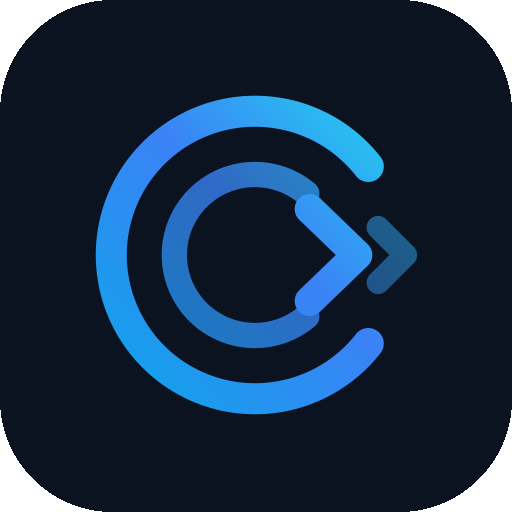
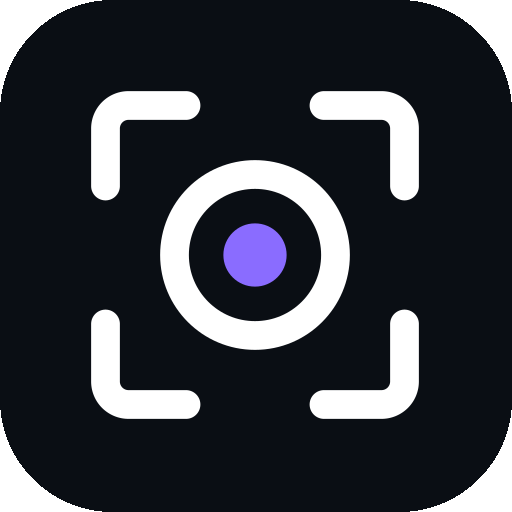
Marca: isotipo nuevo (recuadro de detección + lente) e íconos por producto
Nico definió la identidad nueva de OmniAccess (26/10) y pidió aplicarla en el lab.
- OmniLogo: el anillo con cheurón y su degradado fijo pasa a ser el recuadro de detección
  con la lente, en currentColor (se lee en los dos temas) y el punto violeta de OmniVision
  como constante con nombre.
- iconos-marca.py: el mismo dibujo; cada consola instalable (LPR, Face, Filas) lleva el
  color de su producto de fondo para distinguirlas en el teléfono; la del guardia, en tinta.
  Acepta SALIDA para generar fuera del repo. Íconos, logos y tarjeta para compartir
  regenerados.
- build-manuals.js: el isotipo de la portada de los manuales, el mismo.
- Login: sin testimonios cargados se mostraba la cita de una persona inventada
  («Ricardo Valenzuela»). Ahora son frases del producto, sin nombre de nadie.

Claude-Session: https://claude.ai/code/session_01Y2MUNPm4g8YGBEXaZ9C8Sj

Changed region(s): [[0.1562, 0.1562, 0.8438, 0.8438], [0.4375, 0.4375, 0.5625, 0.5625]]

diff --git a/src/components/brand/OmniLogo.tsx b/src/components/brand/OmniLogo.tsx
@@ -1,25 +1,29 @@
 /**
  * Isotipo OmniAccess.
  *
- * Un anillo de cobertura (todo vigilado) con el paso abierto a la derecha y el
- * cheurón de avance (acceso autorizado). Es el mismo dibujo que va en la portada
- * de los manuales — si se cambia acá, cambiar también en scripts/build-manuals.js.
+ * El recuadro de detección (las cuatro esquinas que OmniVision dibuja sobre lo que ve)
+ * encuadrando una lente. El punto del centro es OmniVision: lo único de color propio.
+ *
+ * Reemplaza al anillo con cheurón (octubre 2026, identidad nueva). Las esquinas y la
+ * lente van con `currentColor` para que el isotipo herede el color del texto donde se
+ * pone —claro sobre la barra oscura, oscuro sobre papel— en vez de traer un degradado
+ * fijo que en uno de los dos temas no se lee.
+ *
+ * Es el mismo dibujo que va en scripts/iconos-marca.py y en la portada de los manuales
+ * (scripts/build-manuals.js): si se cambia acá, cambiarlo también allá.
  */
+
+/** El violeta de OmniVision. Es de la marca, no de la interfaz: no es un tono de estado
+ *  ni un color de acción, por eso no vive entre los tokens de globals.css. */
+export const VIOLETA_OMNIVISION = "#8A6CFF";
+
 export function OmniLogo({ size = 24, className }: { size?: number; className?: string }) {
-    const id = `oa${size}`;
     return (
-        <svg width={size} height={size} viewBox="0 0 64 64" className={className} aria-label="OmniAccess">
-            <defs>
-                <linearGradient id={id} x1="6" y1="58" x2="58" y2="6" gradientUnits="userSpaceOnUse">
-                    <stop offset="0" stopColor="#0ea5e9" />
-                    <stop offset=".55" stopColor="#3b82f6" />
-                    <stop offset="1" stopColor="#22d3ee" />
-                </linearGradient>
-            </defs>
-            <path d="M51.7 16.6 A25 25 0 1 0 51.7 47.4" fill="none" stroke={`url(#${id})`} strokeWidth="5.4" strokeLinecap="round" />
-            <path d="M41 21.3 A14 14 0 1 0 41 42.7" fill="none" stroke={`url(#${id})`} strokeWidth="4.4" strokeLinecap="round" opacity=".78" />
-            <path d="M41.5 24 L49.8 32 L41.5 40" fill="none" stroke={`url(#${id})`} strokeWidth="5.2" strokeLinecap="round" strokeLinejoin="round" />
-            <path d="M53.4 27.2 L58.2 32 L53.4 36.8" fill="none" stroke={`url(#${id})`} strokeWidth="4" strokeLinecap="round" strokeLinejoin="round" opacity=".5" />
+        <svg width={size} height={size} viewBox="0 0 64 64" className={className} aria-label="OmniAccess" fill="none">
+            <path d="M6 20V10a4 4 0 0 1 4-4h10M44 6h10a4 4 0 0 1 4 4v10M58 44v10a4 4 0 0 1-4 4H44M20 58H10a4 4 0 0 1-4-4V44"
+                stroke="currentColor" strokeWidth="5" strokeLinecap="round" />
+            <circle cx="32" cy="32" r="14" stroke="currentColor" strokeWidth="5" />
+            <circle cx="32" cy="32" r="5.5" fill={VIOLETA_OMNIVISION} />
         </svg>
     );
 }

diff --git a/scripts/build-manuals.js b/scripts/build-manuals.js
@@ -47,15 +47,11 @@ function medidaPng(p) {
     } catch { return null; }
 }
 
-/* Isotipo OmniAccess — anillo de cobertura con el paso abierto. */
-const LOGO = (px) => `<svg width="${px}" height="${px}" viewBox="0 0 64 64" aria-label="OmniAccess">
-  <defs><linearGradient id="oaG${px}" x1="6" y1="58" x2="58" y2="6" gradientUnits="userSpaceOnUse">
-    <stop offset="0" stop-color="#0ea5e9"/><stop offset=".55" stop-color="#3b82f6"/><stop offset="1" stop-color="#22d3ee"/>
-  </linearGradient></defs>
-  <path d="M51.7 16.6 A25 25 0 1 0 51.7 47.4" fill="none" stroke="url(#oaG${px})" stroke-width="5.4" stroke-linecap="round"/>
-  <path d="M41 21.3 A14 14 0 1 0 41 42.7" fill="none" stroke="url(#oaG${px})" stroke-width="4.4" stroke-linecap="round" opacity=".78"/>
-  <path d="M41.5 24 L49.8 32 L41.5 40" fill="none" stroke="url(#oaG${px})" stroke-width="5.2" stroke-linecap="round" stroke-linejoin="round"/>
-  <path d="M53.4 27.2 L58.2 32 L53.4 36.8" fill="none" stroke="url(#oaG${px})" stroke-width="4" stroke-linecap="round" stroke-linejoin="round" opacity=".5"/>
+/* Isotipo OmniAccess — recuadro de detección + lente; el punto es OmniVision (ver brand/OmniLogo.tsx). */
+const LOGO = (px) => `<svg width="${px}" height="${px}" viewBox="0 0 64 64" aria-label="OmniAccess" fill="none">
+  <path d="M6 20V10a4 4 0 0 1 4-4h10M44 6h10a4 4 0 0 1 4 4v10M58 44v10a4 4 0 0 1-4 4H44M20 58H10a4 4 0 0 1-4-4V44" stroke="currentColor" stroke-width="5" stroke-linecap="round"/>
+  <circle cx="32" cy="32" r="14" stroke="currentColor" stroke-width="5"/>
+  <circle cx="32" cy="32" r="5.5" fill="#8A6CFF"/>
 </svg>`;
 
 /* ─────────────── Markdown mínimo (sin dependencias) ─────────────── */

diff --git a/src/app/login/page.tsx b/src/app/login/page.tsx
@@ -23,7 +23,13 @@ export default function LoginPage() {
     const [brand, setBrand] = useState<{ name: string; subtitle: string; logoUrl: string; loginBgUrl: string }>({ name: '', subtitle: '', logoUrl: '', loginBgUrl: '' });
     useEffect(() => { getAppBranding().then((b: any) => setBrand(b)).catch(() => {}); }, []);
     const [tIdx, setTIdx] = useState(0);
-    const TS_DEFAULT = [{ quote: "OmniAccess ha revolucionado la forma en que gestionamos la seguridad. No es solo un sistema, es la base de nuestra tranquilidad operativa.", name: "Ricardo Valenzuela", role: "Director de Seguridad Patrimonial" }];
+    // Sin testimonios cargados en Ajustes → Branding se muestran frases del producto, no la cita
+    // de una persona inventada: un nombre y un cargo que nadie dijo, en la puerta de entrada de un
+    // sistema de seguridad, es justo lo que no se puede mostrar.
+    const TS_DEFAULT = [
+        { quote: "La cámara detecta. OmniVision confirma: cada evento se verifica con inteligencia artificial propia antes de avisar.", name: "OmniVision", role: "IA propia, en el servidor del sitio" },
+        { quote: "Matrículas, rostros, filas e intrusión en un solo panel, con las imágenes guardadas en el sitio.", name: "OmniAccess", role: "Ve. Verifica. Avisa." },
+    ];
     const testimonials: any[] = ((brand as any).testimonials && (brand as any).testimonials.length) ? (brand as any).testimonials : TS_DEFAULT;
     useEffect(() => { const n = testimonials.length; if (n <= 1) return; const iv = setInterval(() => setTIdx((i) => (i + 1) % n), 7000); return () => clearInterval(iv); }, [testimonials.length]);
     const tCur = testimonials[tIdx % testimonials.length] || TS_DEFAULT[0];

diff --git a/scripts/iconos-marca.py b/scripts/iconos-marca.py
@@ -26,31 +26,32 @@ except ImportError as e:
     sys.exit(f"falta una dependencia ({e}); ver el encabezado del script")
 
 RAIZ = Path(__file__).resolve().parent.parent
-PUBLIC = RAIZ / "public"
+PUBLIC = Path(__import__("os").environ.get("SALIDA", str(RAIZ / "public")))
 FUENTE_WOFF2 = RAIZ / "src/app/fuentes/outfit-latin.woff2"
 
 # Colores del producto (ver DESIGN.md): fondo oscuro de la app y el degradado del isotipo.
-FONDO = (11, 18, 32, 255)          # #0b1220
-FONDO_HEX = "#0b1220"
+FONDO = (10, 14, 20, 255)          # #0A0E14, la tinta de la identidad
+FONDO_HEX = "#0A0E14"
 BLANCO = (255, 255, 255, 255)
 GRIS = (148, 163, 184, 255)        # slate-400
 
-MARCA_SVG = """<svg xmlns="http://www.w3.org/2000/svg" viewBox="0 0 64 64" width="{w}" height="{w}">
-  <defs>
-    <linearGradient id="g" x1="6" y1="58" x2="58" y2="6" gradientUnits="userSpaceOnUse">
-      <stop offset="0" stop-color="#0ea5e9"/><stop offset=".55" stop-color="#3b82f6"/><stop offset="1" stop-color="#22d3ee"/>
-    </linearGradient>
-  </defs>
-  <path d="M51.7 16.6 A25 25 0 1 0 51.7 47.4" fill="none" stroke="url(#g)" stroke-width="5.4" stroke-linecap="round"/>
-  <path d="M41 21.3 A14 14 0 1 0 41 42.7" fill="none" stroke="url(#g)" stroke-width="4.4" stroke-linecap="round" opacity=".78"/>
-  <path d="M41.5 24 L49.8 32 L41.5 40" fill="none" stroke="url(#g)" stroke-width="5.2" stroke-linecap="round" stroke-linejoin="round"/>
-  <path d="M53.4 27.2 L58.2 32 L53.4 36.8" fill="none" stroke="url(#g)" stroke-width="4" stroke-linecap="round" stroke-linejoin="round" opacity=".5"/>
+# El isotipo (src/components/brand/OmniLogo.tsx): recuadro de detección + lente, y el punto
+# violeta de OmniVision. `trazo` y `punto` cambian según el fondo donde va.
+VIOLETA = "#8A6CFF"
+MARCA_SVG = """<svg xmlns="http://www.w3.org/2000/svg" viewBox="0 0 64 64" width="{w}" height="{w}" fill="none">
+  <path d="M6 20V10a4 4 0 0 1 4-4h10M44 6h10a4 4 0 0 1 4 4v10M58 44v10a4 4 0 0 1-4 4H44M20 58H10a4 4 0 0 1-4-4V44" stroke="{trazo}" stroke-width="5" stroke-linecap="round"/>
+  <circle cx="32" cy="32" r="14" stroke="{trazo}" stroke-width="5"/>
+  <circle cx="32" cy="32" r="5.5" fill="{punto}"/>
 </svg>"""
 
+# Cada consola instalable lleva el color de su producto de fondo, para distinguirlas en
+# la pantalla del teléfono o la tablet. La del guardia y la general van en tinta.
+COLOR_PRODUCTO = {"guard": "#0A0E14", "lpr": "#1F5EFF", "face": "#E8457C", "filas": "#0FA3A3"}
 
-def marca(px: int) -> Image.Image:
+
+def marca(px: int, trazo: str = "#FFFFFF", punto: str = VIOLETA) -> Image.Image:
     """El isotipo solo, sobre transparente, de px×px."""
-    png = cairosvg.svg2png(bytestring=MARCA_SVG.format(w=px).encode(), output_width=px, output_height=px)
+    png = cairosvg.svg2png(bytestring=MARCA_SVG.format(w=px, trazo=trazo, punto=punto).encode(), output_width=px, output_height=px)
     return Image.open(io.BytesIO(png)).convert("RGBA")
 
 
@@ -65,13 +66,17 @@ def fuente(peso: int, tam: int) -> ImageFont.FreeTypeFont:
     return fnt
 
 
-def icono(px: int, margen: float = 0.14, radio: float = 0.22, fondo=FONDO) -> Image.Image:
+def hex_rgba(h: str):
+    h = h.lstrip("#"); return (int(h[0:2], 16), int(h[2:4], 16), int(h[4:6], 16), 255)
+
+
+def icono(px: int, margen: float = 0.14, radio: float = 0.22, fondo=FONDO, punto: str = VIOLETA) -> Image.Image:
     """Ícono cuadrado: fondo oscuro con esquinas redondeadas y el isotipo centrado.
     `margen` es la fracción de aire alrededor (los maskable piden más)."""
     im = Image.new("RGBA", (px, px), (0, 0, 0, 0))
     d = ImageDraw.Draw(im)
     d.rounded_rectangle([0, 0, px - 1, px - 1], radius=int(px * radio), fill=fondo)
-    m = marca(int(px * (1 - 2 * margen)))
+    m = marca(int(px * (1 - 2 * margen)), punto=punto)
     im.alpha_composite(m, (int(px * margen), int(px * margen)))
     return im
 
@@ -81,7 +86,7 @@ def wordmark(ancho: int, alto: int, claro: bool = True, fondo=(0, 0, 0, 0)) -> I
     im = Image.new("RGBA", (ancho, alto), fondo)
     d = ImageDraw.Draw(im)
     mk = int(alto * 0.46)
-    t1, t2 = "OmniAccess", "CONTROL Y ACCESO"
+    t1, t2 = "OmniAccess", "VE. VERIFICA. AVISA."
     # El tamaño del nombre sale del ancho disponible, no de un número fijo: así el mismo
     # dibujo sirve para 1024×512 y para una cabecera angosta sin recortarse.
     tam = int(alto * 0.24)
@@ -94,7 +99,7 @@ def wordmark(ancho: int, alto: int, claro: bool = True, fondo=(0, 0, 0, 0)) -> I
     w1 = d.textlength(t1, font=f1); w2 = sum(d.textlength(ch, font=f2) + esp for ch in t2)
     bloque = mk + alto * 0.1 + max(w1, w2)
     x = (ancho - bloque) / 2
-    im.alpha_composite(marca(mk), (int(x), (alto - mk) // 2))
+    im.alpha_composite(marca(mk, trazo="#FFFFFF" if claro else FONDO_HEX), (int(x), (alto - mk) // 2))
     tx = x + mk + alto * 0.1
     col = BLANCO if claro else (15, 23, 42, 255)
     ty = alto / 2 - tam * 0.72
@@ -116,8 +121,8 @@ def og(ancho=1200, alto=630) -> Image.Image:
     f1 = fuente(700, 108); f2 = fuente(400, 38); f3 = fuente(600, 26)
     x = 110 + mk + 70
     d.text((x, 170), "OmniAccess", font=f1, fill=BLANCO)
-    d.text((x, 305), "Control de acceso y vigilancia", font=f2, fill=(203, 213, 225, 255))
-    d.text((x, 358), "LPR · facial · intrusión · visitas", font=f2, fill=GRIS)
+    d.text((x, 305), "Ve. Verifica. Avisa.", font=f2, fill=(203, 213, 225, 255))
+    d.text((x, 358), "LPR · Face · Filas · intrusión incluida", font=f2, fill=GRIS)
     cx = x
     for ch in "INGENIERÍA EN SEGURIDAD":
         d.text((cx, 445), ch, font=f3, fill=(100, 116, 139, 255)); cx += d.textlength(ch, font=f3) + 4
@@ -139,10 +144,12 @@ def main():
     # Los nombres que ya usan los manifests de cada consola (guard/lpr/face/filas) y el
     # servicio worker: se pisan con la marca del producto para no tocar cuatro manifests
     # y la caché de la PWA instalada en las tablets.
-    for mod in ("guard", "lpr", "face", "filas"):
-        guardar(icono(192), f"iconos/{mod}-192.png")
-        guardar(icono(512), f"iconos/{mod}-512.png")
-        guardar(icono(512, margen=0.24, radio=0.0), f"iconos/{mod}-512-maskable.png")
+    for mod, color in COLOR_PRODUCTO.items():
+        # Sobre un fondo de color el punto va blanco: el violeta sobre azul o rosa no se lee.
+        f, pt = hex_rgba(color), (VIOLETA if mod == "guard" else "#FFFFFF")
+        guardar(icono(192, fondo=f, punto=pt), f"iconos/{mod}-192.png")
+        guardar(icono(512, fondo=f, punto=pt), f"iconos/{mod}-512.png")
+        guardar(icono(512, margen=0.24, radio=0.0, fondo=f, punto=pt), f"iconos/{mod}-512-maskable.png")
     for rel in ("icon-192.png", "icons/icon-192.png"):
         guardar(icono(192), rel)
     for rel in ("icon-512.png", "icons/icon-512.png"):
